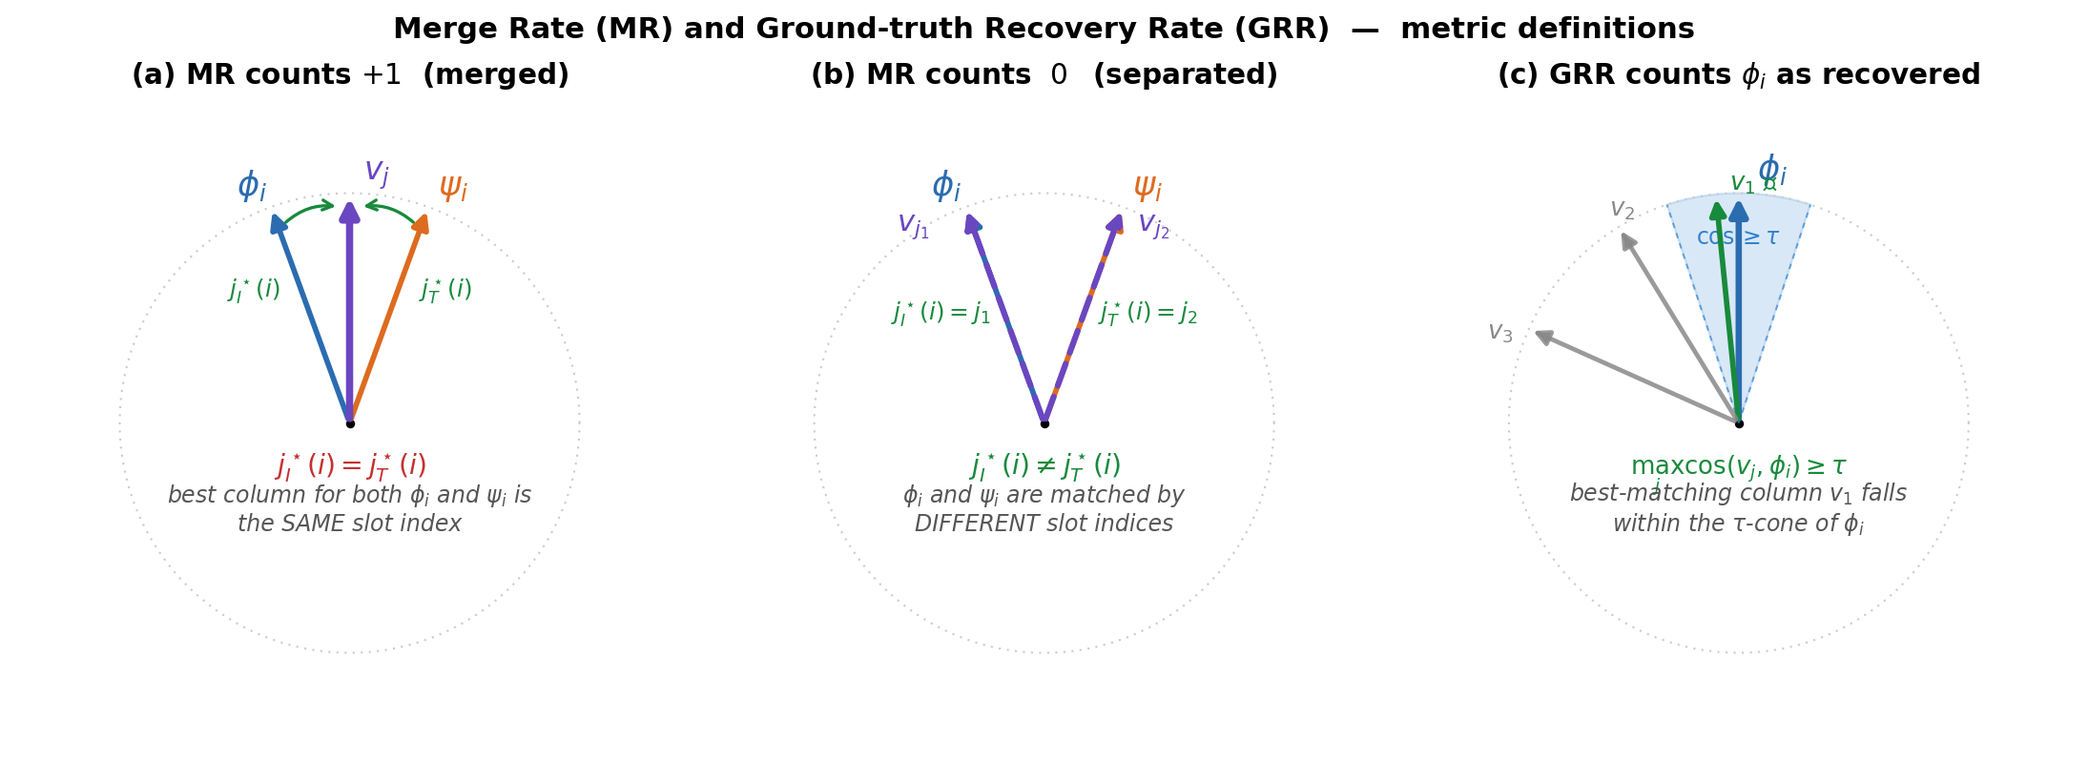
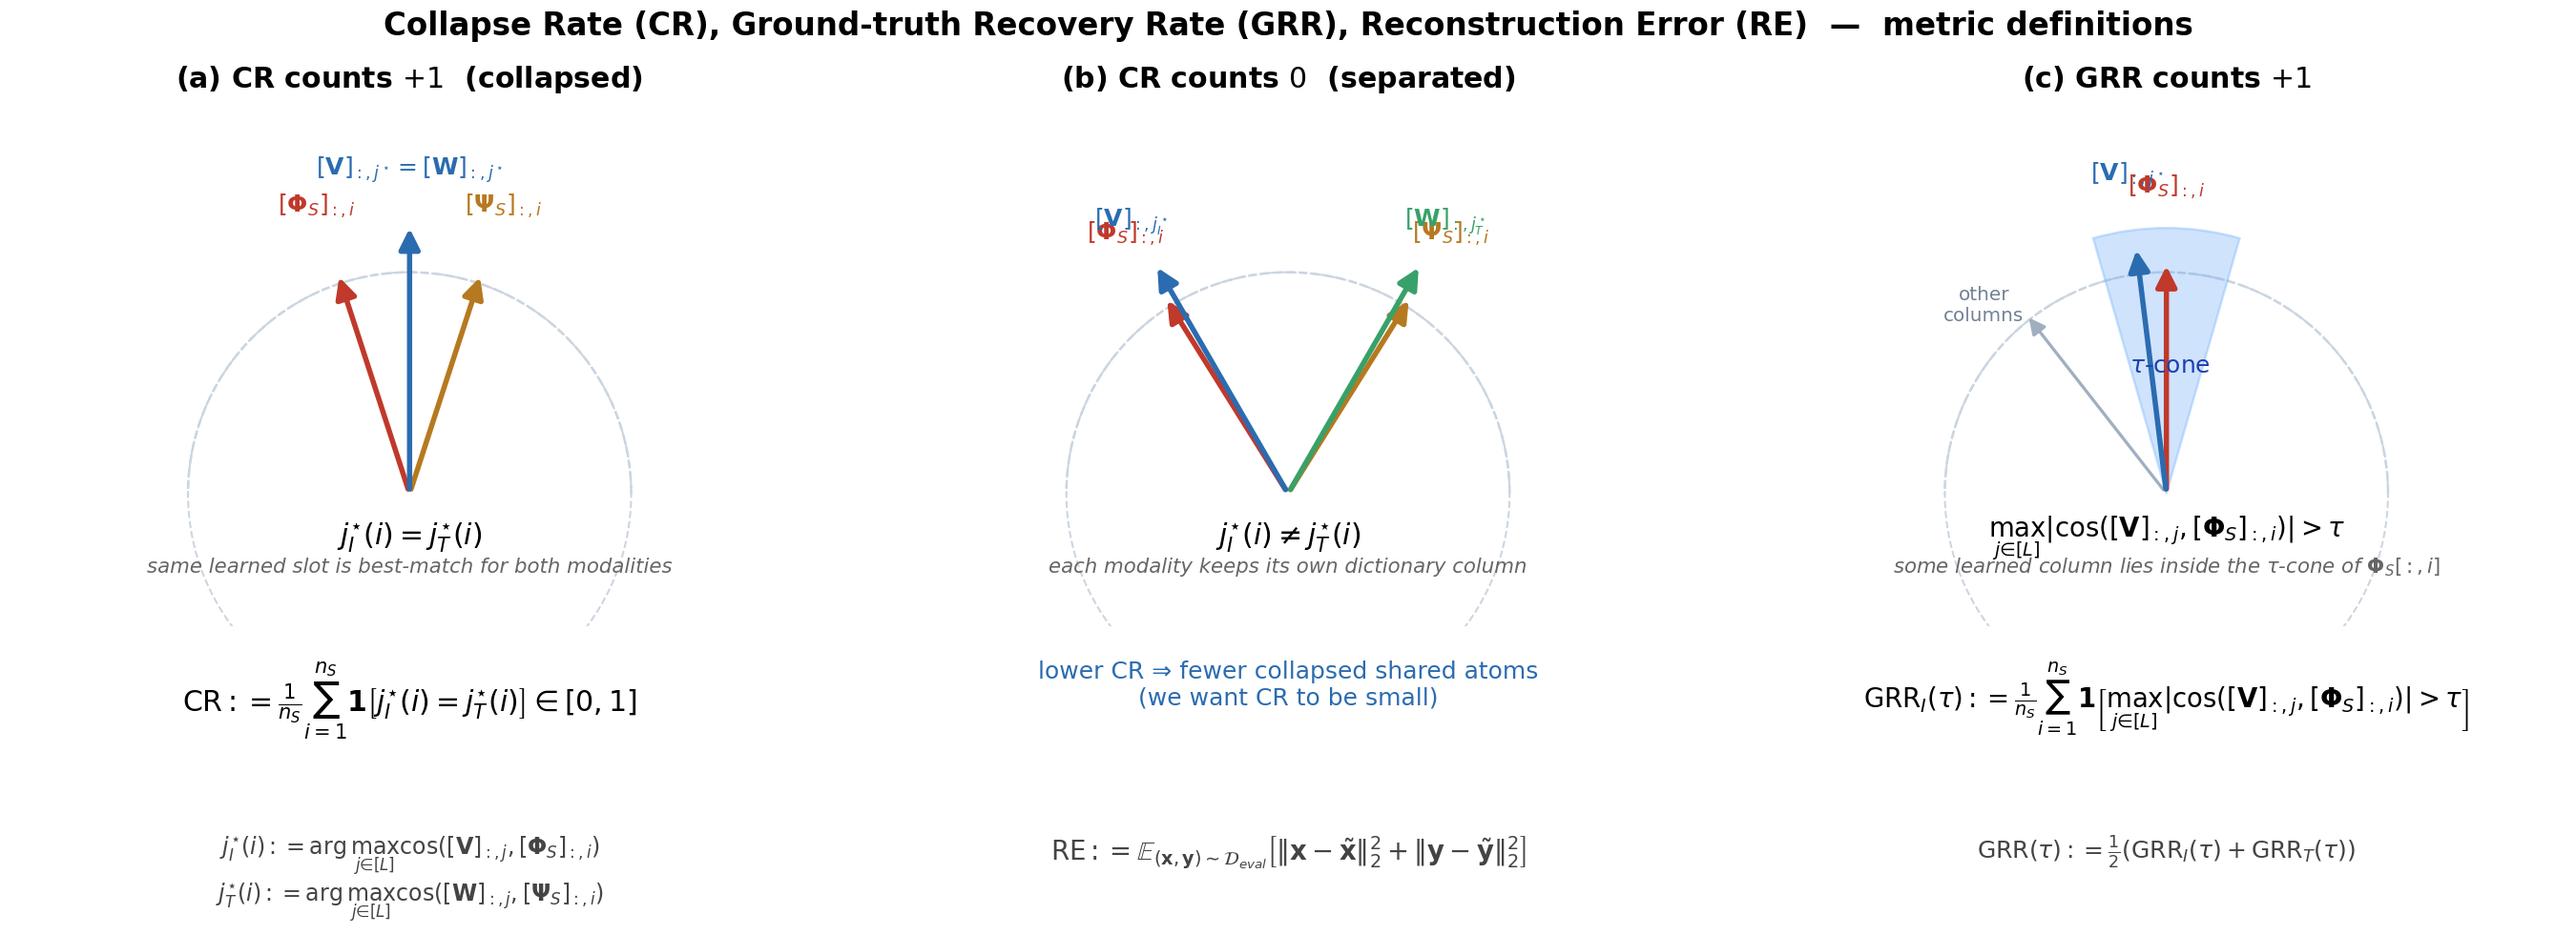
metrics: rename MR -> Collapse Rate (CR); add metric_explainer script with math definitions

diff --git a/scripts/plot_metric_explainer.py b/scripts/plot_metric_explainer.py
@@ -1,0 +1,197 @@
+#!/usr/bin/env python3
+"""Three-panel metric explainer for CR and GRR, with math definitions.
+
+Panels:
+    (a) CR counts +1  — same learned slot best-matches both modalities.
+    (b) CR counts  0  — different learned slots; modalities do not collapse.
+    (c) GRR counts    — some learned column lies inside the τ-cone of Φ_S[:,i].
+
+Each panel shows a geometric sketch on top and the formal definition on the
+bottom. Also printed: Reconstruction Error (RE) definition at the top header.
+
+Usage:
+    python scripts/plot_metric_explainer.py \
+        --out outputs/theorem2_followup_12/fig_metric_explainer.png
+"""
+
+import argparse
+from pathlib import Path
+
+import matplotlib
+matplotlib.use("Agg")
+import matplotlib.pyplot as plt
+import numpy as np
+from matplotlib.patches import Circle, FancyArrowPatch, Wedge
+
+
+C_PHI  = "#c0392b"
+C_PSI  = "#b7791f"
+C_V1   = "#2b6cb0"
+C_V2   = "#38a169"
+C_CONE = "#60a5fa"
+
+
+def _arrow(ax, xy, color, label, label_xy, lw=2.2, label_color=None, fontsize=10):
+    ax.add_patch(FancyArrowPatch(
+        (0.0, 0.0), (float(xy[0]), float(xy[1])),
+        arrowstyle="-|>", mutation_scale=18,
+        color=color, lw=lw, zorder=3,
+    ))
+    ax.text(float(label_xy[0]), float(label_xy[1]), label, fontsize=fontsize,
+            color=label_color or color, ha="center", va="center")
+
+
+def _style(ax, title):
+    ax.set_xlim(-1.6, 1.6)
+    ax.set_ylim(-0.6, 1.75)
+    ax.set_aspect("equal")
+    ax.set_xticks([]); ax.set_yticks([])
+    for s in ax.spines.values():
+        s.set_visible(False)
+    ax.set_title(title, fontsize=12, fontweight="bold", pad=8)
+    # unit-sphere reference (upper half)
+    theta = np.linspace(0, np.pi, 200)
+    ax.plot(np.cos(theta), np.sin(theta), color="#cbd5e0", lw=1.0, ls="--", zorder=0)
+    ax.add_patch(Circle((0, 0), 1.0, fill=False, edgecolor="#cbd5e0",
+                         lw=0.8, ls="--", zorder=0))
+
+
+def make_fig(out_path: str):
+    fig = plt.figure(figsize=(15.5, 5.6))
+    gs = fig.add_gridspec(
+        nrows=2, ncols=3,
+        height_ratios=[3.2, 1.7],
+        hspace=0.05, wspace=0.10,
+        left=0.02, right=0.98, top=0.88, bottom=0.03,
+    )
+    axes_top = [fig.add_subplot(gs[0, c]) for c in range(3)]
+    axes_bot = [fig.add_subplot(gs[1, c]) for c in range(3)]
+    for ax in axes_bot:
+        ax.axis("off")
+
+    # ============ (a) CR counts +1 ============
+    ax = axes_top[0]
+    _style(ax, r"(a) CR counts $+1$  (collapsed)")
+    phi = np.array([np.cos(np.deg2rad(108)), np.sin(np.deg2rad(108))]) * 1.05
+    psi = np.array([np.cos(np.deg2rad(72)),  np.sin(np.deg2rad(72))])  * 1.05
+    v_shared = np.array([np.cos(np.deg2rad(90)), np.sin(np.deg2rad(90))]) * 1.22
+    _arrow(ax, phi,      C_PHI, r"$[\mathbf{\Phi}_S]_{:,i}$",     phi * 1.30)
+    _arrow(ax, psi,      C_PSI, r"$[\mathbf{\Psi}_S]_{:,i}$",     psi * 1.30)
+    _arrow(ax, v_shared, C_V1,  r"$[\mathbf{V}]_{:,j^\star}=[\mathbf{W}]_{:,j^\star}$", v_shared * 1.20)
+    ax.text(0, -0.20,
+            r"$j^{\star}_{I}(i) = j^{\star}_{T}(i)$",
+            ha="center", va="center", fontsize=12)
+    ax.text(0, -0.33,
+            "same learned slot is best-match for both modalities",
+            ha="center", va="center", fontsize=8.5, style="italic", color="#666")
+
+    axes_bot[0].text(
+        0.5, 0.95,
+        r"$\mathrm{CR}   :=   \frac{1}{n_{S}}\sum_{i=1}^{n_{S}} \mathbf{1}\left[  j^{\star}_{I}(i) = j^{\star}_{T}(i)  \right]   \in   [0,1]$",
+        ha="center", va="top", fontsize=12,
+    )
+    axes_bot[0].text(
+        0.5, 0.32,
+        r"$j^{\star}_{I}(i) := \arg\max_{j\in[L]}\cos([\mathbf{V}]_{:,j},  [\mathbf{\Phi}_S]_{:,i})$"
+        "\n"
+        r"$j^{\star}_{T}(i) := \arg\max_{j\in[L]}\cos([\mathbf{W}]_{:,j},  [\mathbf{\Psi}_S]_{:,i})$",
+        ha="center", va="top", fontsize=9.5, color="#444",
+    )
+
+    # ============ (b) CR counts 0 ============
+    ax = axes_top[1]
+    _style(ax, r"(b) CR counts $0$  (separated)")
+    phi = np.array([np.cos(np.deg2rad(122)), np.sin(np.deg2rad(122))]) * 1.05
+    psi = np.array([np.cos(np.deg2rad(58)),  np.sin(np.deg2rad(58))])  * 1.05
+    v1  = np.array([np.cos(np.deg2rad(120)), np.sin(np.deg2rad(120))]) * 1.20
+    v2  = np.array([np.cos(np.deg2rad(60)),  np.sin(np.deg2rad(60))])  * 1.20
+    _arrow(ax, phi, C_PHI, r"$[\mathbf{\Phi}_S]_{:,i}$", phi * 1.32)
+    _arrow(ax, psi, C_PSI, r"$[\mathbf{\Psi}_S]_{:,i}$", psi * 1.32)
+    _arrow(ax, v1,  C_V1,  r"$[\mathbf{V}]_{:,j^\star_I}$",  v1 * 1.18)
+    _arrow(ax, v2,  C_V2,  r"$[\mathbf{W}]_{:,j^\star_T}$",  v2 * 1.18)
+    ax.text(0, -0.20,
+            r"$j^{\star}_{I}(i) \neq j^{\star}_{T}(i)$",
+            ha="center", va="center", fontsize=12)
+    ax.text(0, -0.33,
+            "each modality keeps its own dictionary column",
+            ha="center", va="center", fontsize=8.5, style="italic", color="#666")
+
+    axes_bot[1].text(
+        0.5, 0.95,
+        "lower CR ⇒ fewer collapsed shared atoms\n"
+        "(we want CR to be small)",
+        ha="center", va="top", fontsize=10, color="#2b6cb0",
+    )
+    axes_bot[1].text(
+        0.5, 0.32,
+        r"$\mathrm{RE}   :=   \mathbb{E}_{(\mathbf{x},\mathbf{y})\sim\mathcal{D}_{eval}}"
+        r"\left[  \|\mathbf{x}-\tilde{\mathbf{x}}\|_2^2 + \|\mathbf{y}-\tilde{\mathbf{y}}\|_2^2  \right]$",
+        ha="center", va="top", fontsize=11, color="#444",
+    )
+
+    # ============ (c) GRR counts +1 ============
+    ax = axes_top[2]
+    _style(ax, r"(c) GRR counts $+1$")
+    phi_ang = 90.0
+    phi = np.array([np.cos(np.deg2rad(phi_ang)), np.sin(np.deg2rad(phi_ang))]) * 1.05
+    cone_halfwidth = 16
+    ax.add_patch(Wedge(
+        (0, 0), 1.20,
+        phi_ang - cone_halfwidth, phi_ang + cone_halfwidth,
+        facecolor=C_CONE, alpha=0.30, edgecolor=C_CONE, lw=1.0, zorder=1,
+    ))
+    v_in  = np.array([np.cos(np.deg2rad(phi_ang + 7)),  np.sin(np.deg2rad(phi_ang + 7))])  * 1.13
+    v_out = np.array([np.cos(np.deg2rad(phi_ang + 38)), np.sin(np.deg2rad(phi_ang + 38))]) * 1.03
+    _arrow(ax, phi,   C_PHI, r"$[\mathbf{\Phi}_S]_{:,i}$", phi * 1.32)
+    _arrow(ax, v_in,  C_V1,  r"$[\mathbf{V}]_{:,j^\star}$",    v_in * 1.28)
+    ax.add_patch(FancyArrowPatch(
+        (0.0, 0.0), (float(v_out[0]), float(v_out[1])),
+        arrowstyle="-|>", mutation_scale=14,
+        color="#a0aec0", lw=1.3, zorder=2,
+    ))
+    ax.text(float(v_out[0]) * 1.30, float(v_out[1]) * 1.05, "other\ncolumns",
+            fontsize=8, color="#718096", ha="center", va="center")
+    edge_ang = np.deg2rad(phi_ang + cone_halfwidth)
+    ax.text(np.cos(edge_ang) * 0.60, np.sin(edge_ang) * 0.60,
+            r"$\tau$-cone", fontsize=10, color="#1e40af",
+            ha="left", va="center")
+    ax.text(0, -0.20,
+            r"$\max_{j\in[L]} |\cos([\mathbf{V}]_{:,j}, [\mathbf{\Phi}_S]_{:,i})| > \tau$",
+            ha="center", va="center", fontsize=11)
+    ax.text(0, -0.33,
+            r"some learned column lies inside the $\tau$-cone of $\mathbf{\Phi}_S[:,i]$",
+            ha="center", va="center", fontsize=8.5, style="italic", color="#666")
+
+    axes_bot[2].text(
+        0.5, 0.95,
+        r"$\mathrm{GRR}_I(\tau) := \frac{1}{n_S}\sum_{i=1}^{n_S}"
+        r"\mathbf{1}\left[\max_{j\in[L]}|\cos([\mathbf{V}]_{:,j},[\mathbf{\Phi}_S]_{:,i})| > \tau\right]$",
+        ha="center", va="top", fontsize=11,
+    )
+    axes_bot[2].text(
+        0.5, 0.32,
+        r"$\mathrm{GRR}(\tau) := \frac{1}{2}\left(\mathrm{GRR}_I(\tau)+\mathrm{GRR}_T(\tau)\right)$",
+        ha="center", va="top", fontsize=10, color="#444",
+    )
+
+    fig.suptitle(
+        "Collapse Rate (CR), Ground-truth Recovery Rate (GRR), Reconstruction Error (RE)  —  metric definitions",
+        fontsize=13, fontweight="bold", y=0.98,
+    )
+
+    Path(out_path).parent.mkdir(parents=True, exist_ok=True)
+    plt.savefig(out_path, dpi=180, bbox_inches="tight", facecolor="white", pad_inches=0.06)
+    print(f"saved {out_path}")
+    plt.close()
+
+
+def main():
+    p = argparse.ArgumentParser()
+    p.add_argument("--out", type=str,
+                   default="outputs/theorem2_followup_12/fig_metric_explainer.png")
+    args = p.parse_args()
+    make_fig(args.out)
+
+
+if __name__ == "__main__":
+    main()

diff --git a/scripts/plot_fig2_lambda_sweep.py b/scripts/plot_fig2_lambda_sweep.py
@@ -37,7 +37,7 @@ PANELS = [
     # (metric_key,              ylabel,                title,                                                  ylim,          yticks_step, ylog)
     ("avg_eval_loss",           "RE (log scale)",       r"(a) Reconstruction Error (RE) $\downarrow$",         None,          None,        True),
     ("img_mgt_shared_tau0.95",  r"GRR at $\tau=0.95$",  r"(b) Ground-truth Recovery Rate (GRR) $\uparrow$",    None,          None,        False),
-    ("MR_geom",                 "MR",                   r"(c) Merge Rate (MR) $\downarrow$",                   None,          None,        False),
+    ("MR_geom",                 "CR",                   r"(c) Collapse Rate (CR) $\downarrow$",                None,          None,        False),
 ]
 
 

diff --git a/scripts/plot_fig1_three_panels.py b/scripts/plot_fig1_three_panels.py
@@ -30,7 +30,7 @@ PANELS = [
     # (metric_key,                 ylabel,               title,                                        ylim,     yticks_step)
     ("avg_eval_loss",              "RE (log scale)",       r"(a) Reconstruction Error (RE) $\downarrow$",   None,          None),
     ("img_mgt_shared_tau0.95",     r"GRR at $\tau=0.95$", r"(b) Ground-truth Recovery Rate (GRR) $\uparrow$", None,          None),
-    ("merged_fraction",            "MR",                  r"(c) Merge Rate (MR) $\downarrow$",              (-0.05, 1.05), None),
+    ("merged_fraction",            "CR",                  r"(c) Collapse Rate (CR) $\downarrow$",           (-0.05, 1.05), None),
 ]
 
 
